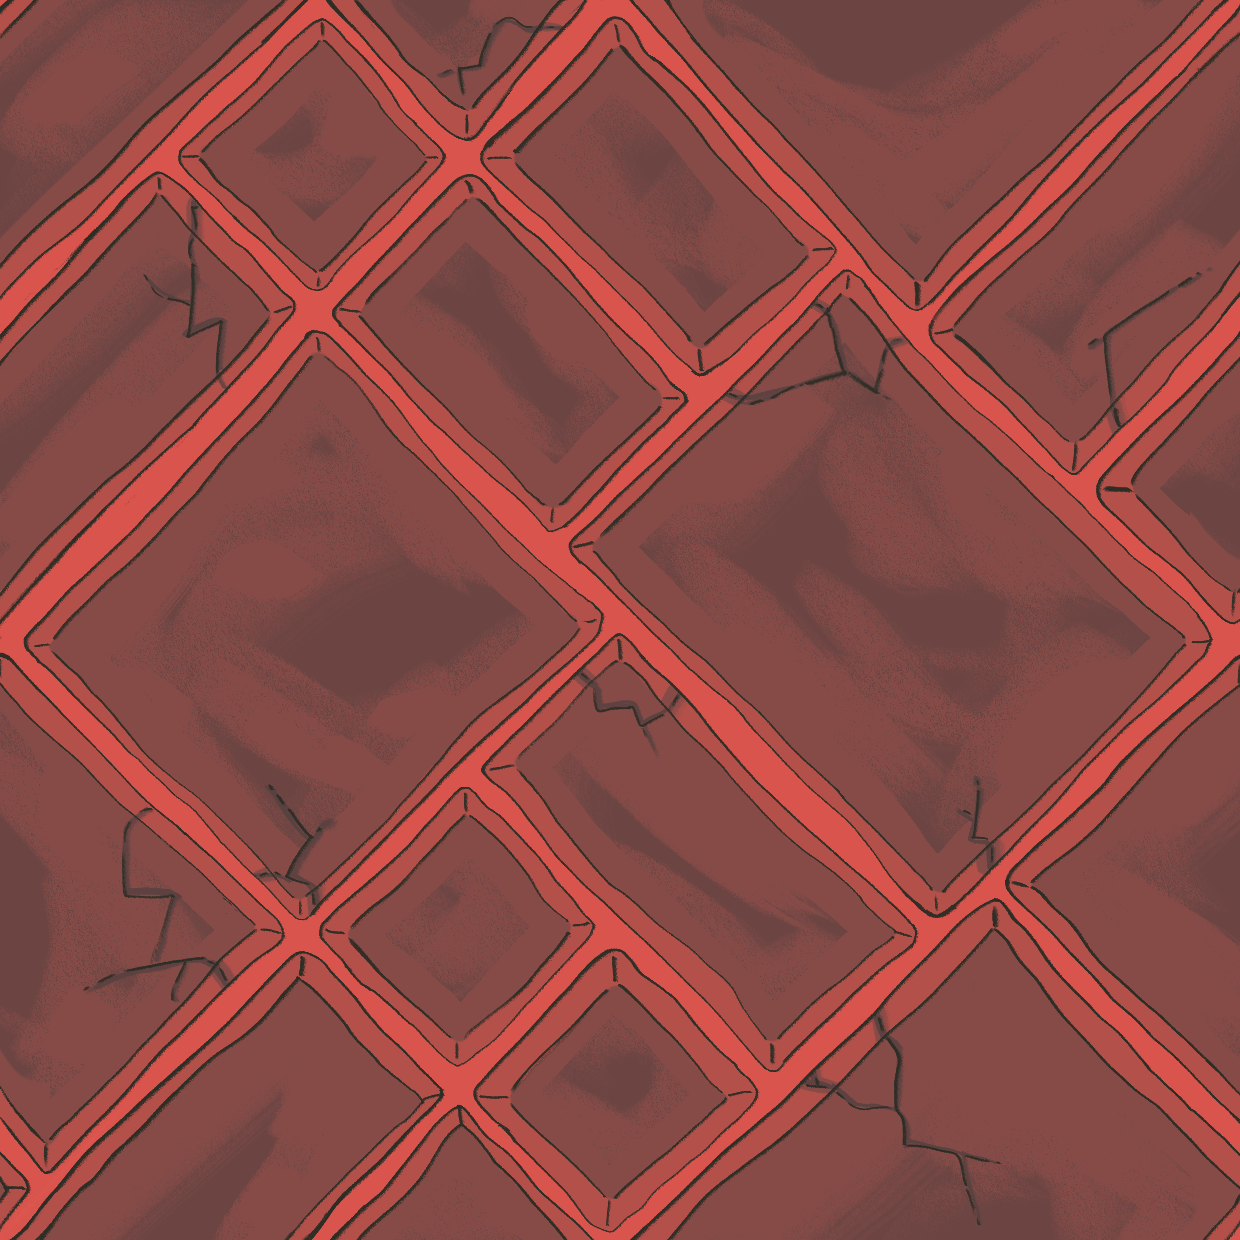
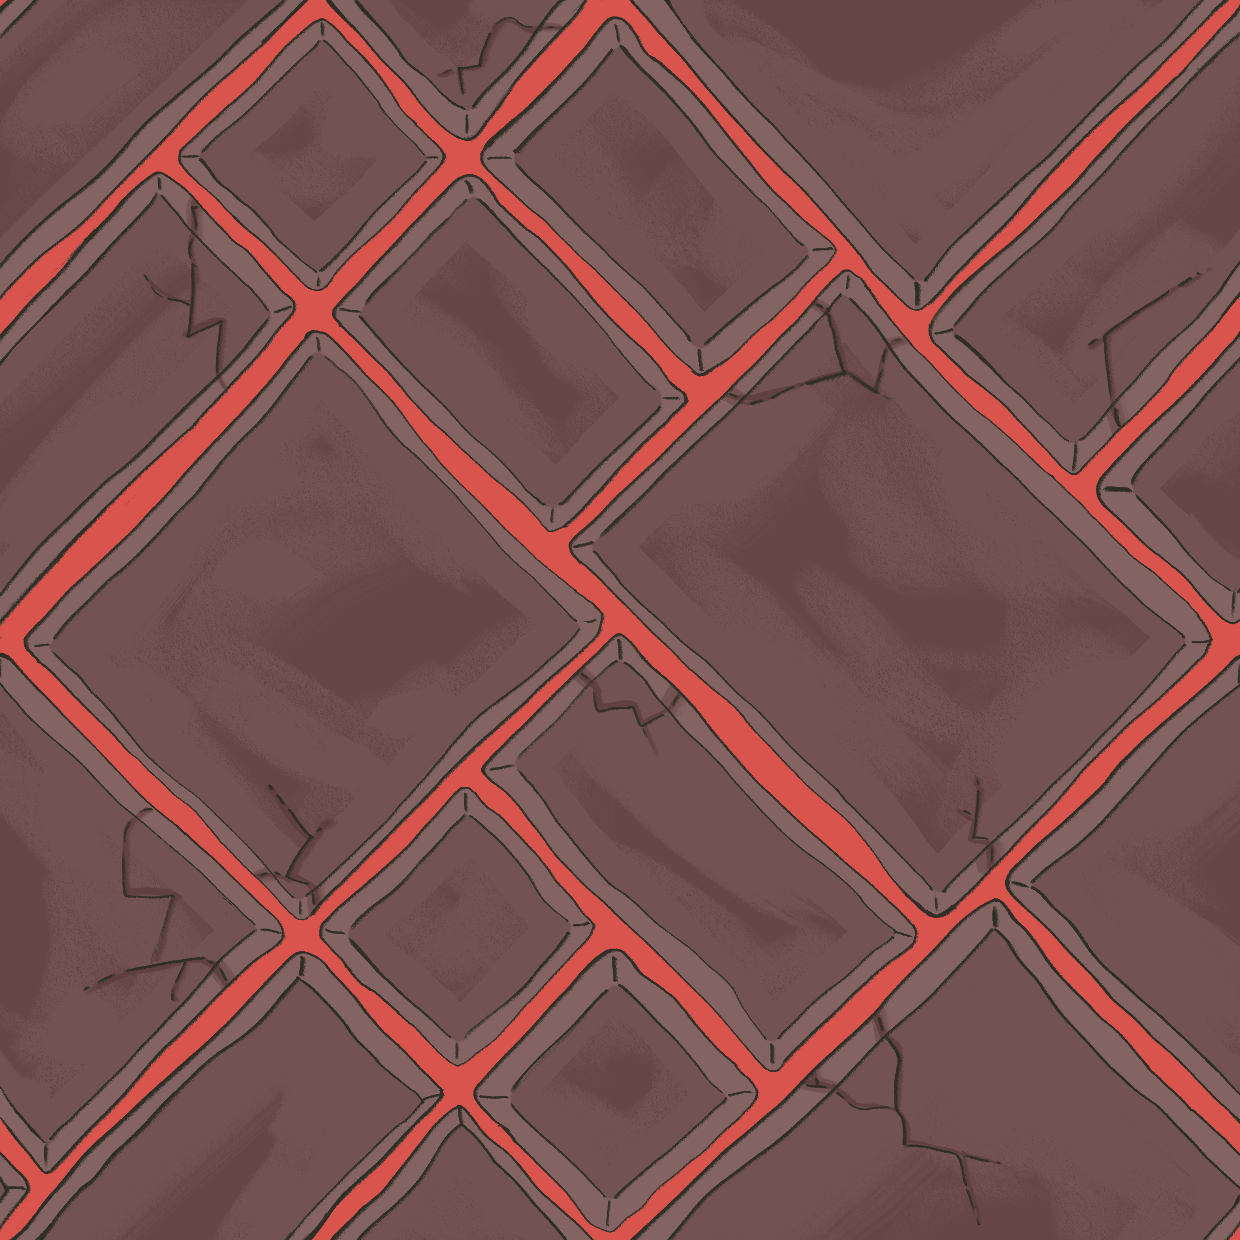
assets and hue fixes

Changed region(s): [[0.0, 0.0, 1.0, 1.0], [0.0, 0.0, 0.0306, 0.0306]]

diff --git a/Assets/Scripts/WorldGen/WorldGenerator.cs b/Assets/Scripts/WorldGen/WorldGenerator.cs
@@ -51,9 +51,10 @@ namespace WorldGen
 
             roomObj.MapCoord = comingFrom.GetLinkedMapCoord();
 
-            // temp
-            roomObj.GetComponent<Renderer>().material.color =
-                new Color(Random.Range(0f, 1f), Random.Range(0f, 1f), Random.Range(0f, 1f));
+            float randHue = Random.Range(0f, 1f);
+            foreach (Renderer renderer in roomObj.GetComponentsInChildren<Renderer>()) {
+                renderer.material.color = Color.HSVToRGB(randHue, 1f, 1f);
+            }
 
             return roomObj;
         }
